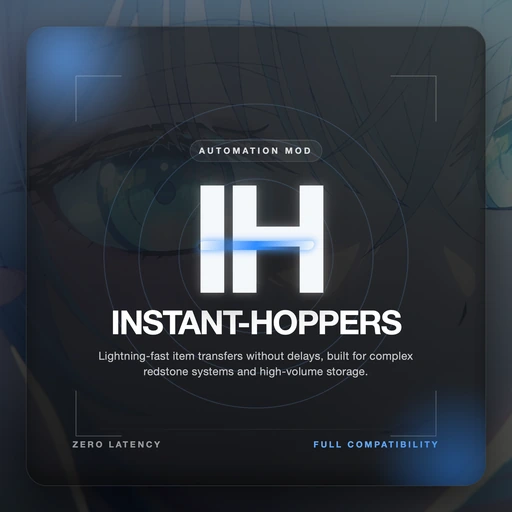
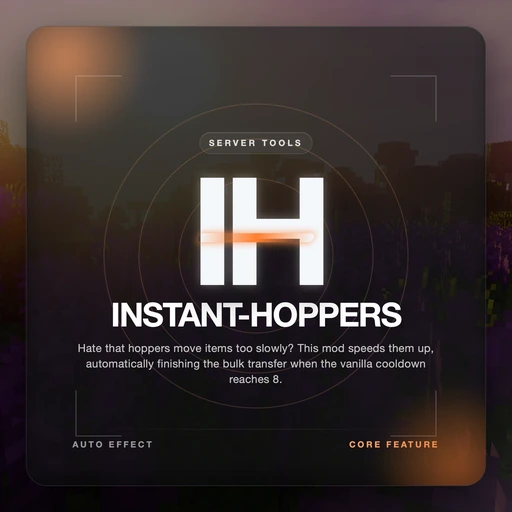
Auto-sync Instant-Hoppers source snapshot

diff --git a/docs/Troubleshooting.md b/docs/Troubleshooting.md
@@ -1,0 +1,17 @@
+# Troubleshooting
+
+## The mod does not load
+
+- Confirm you are using the correct loader.
+- Confirm your Minecraft version is one of: `1.12.2`.
+- Remove duplicate or conflicting jars before retrying.
+
+## The game crashes on startup
+
+- Check `latest.log` and crash reports.
+- Verify you are not mixing unsupported loader or Minecraft versions.
+- Re-test with only `Instant-Hoppers` enabled to isolate conflicts.
+
+## Need help?
+
+Use the GitHub issue tracker for reproducible bugs and attach logs when possible.

diff --git a/docs/Home.md b/docs/Home.md
@@ -6,6 +6,12 @@ The mod does not add new blocks, items, or recipes. It works in any world where 
 
 No commands are required; the change happens automatically in the background.
 
----
+## Quick Facts
 
-This github repository is auto created using itamio's Mod Compiler repository workflow.
+
+
+- Summary: Hate that hoppers move items too slowly? This mod speeds them up, automatically finishing the bulk transfer when the vanilla cooldown reaches 8.
+
+- Loader: `forge`
+
+- Supported Minecraft versions: `1.12.2`

diff --git a/docs/README.md b/docs/README.md
@@ -6,6 +6,12 @@ The mod does not add new blocks, items, or recipes. It works in any world where 
 
 No commands are required; the change happens automatically in the background.
 
----
+## Quick Facts
 
-This github repository is auto created using itamio's Mod Compiler repository workflow.
+
+
+- Summary: Hate that hoppers move items too slowly? This mod speeds them up, automatically finishing the bulk transfer when the vanilla cooldown reaches 8.
+
+- Loader: `forge`
+
+- Supported Minecraft versions: `1.12.2`

diff --git a/docs/Installation.md b/docs/Installation.md
@@ -1,0 +1,12 @@
+# Installation
+
+- Loader: `forge`
+- Supported Minecraft versions: `1.12.2`
+- Source jar: `Instant-Hoppers-1.0.jar`
+
+## Steps
+
+1. Install the correct loader version.
+2. Download the jar built for your Minecraft version.
+3. Drop the jar into your `mods` folder.
+4. Launch the game and confirm the mod loads successfully.
